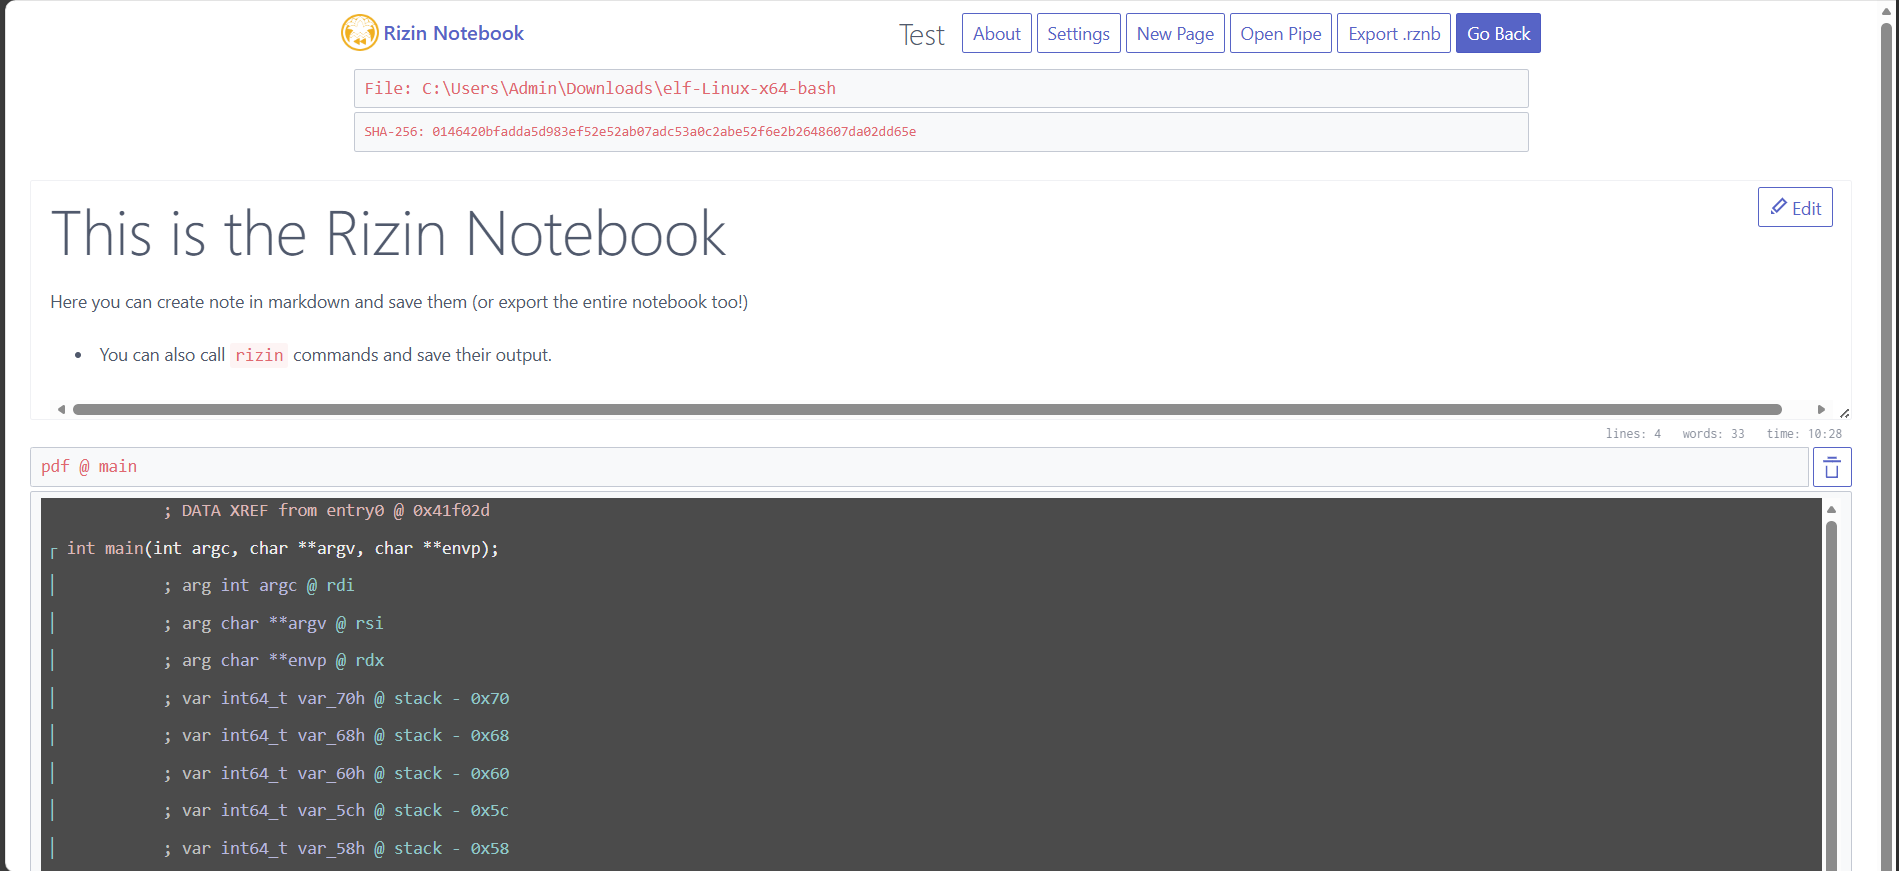
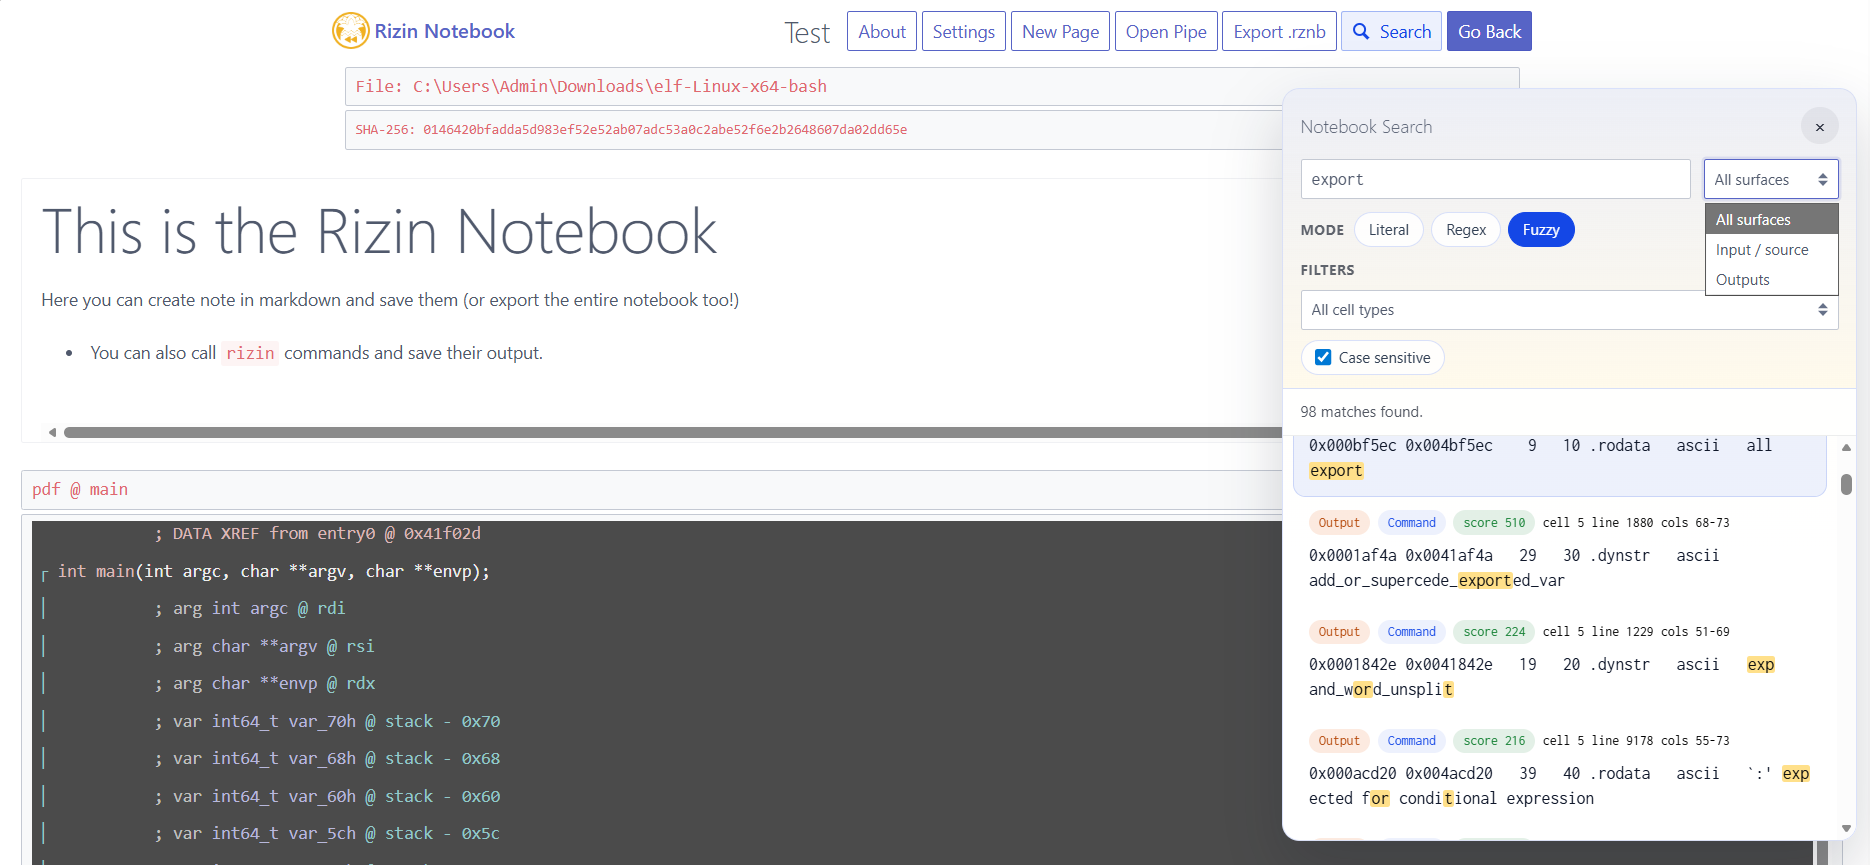
doc: just updated to incl. doc about search

diff --git a/README.md b/README.md
@@ -50,7 +50,7 @@ Project screenshots are organized under `docs/images/`.
 
 <figure>
   <img src="docs/images/web-homepage.png" alt="Rizin Notebook" width="100%" />
-  <figcaption><em>Figure 1. Homepage view</em></figcaption>
+  <figcaption><em>Figure 1. Homepage view (with cell & scope based search, supporting multiple modes.)</em></figcaption>
 </figure>
 
 <figure>
